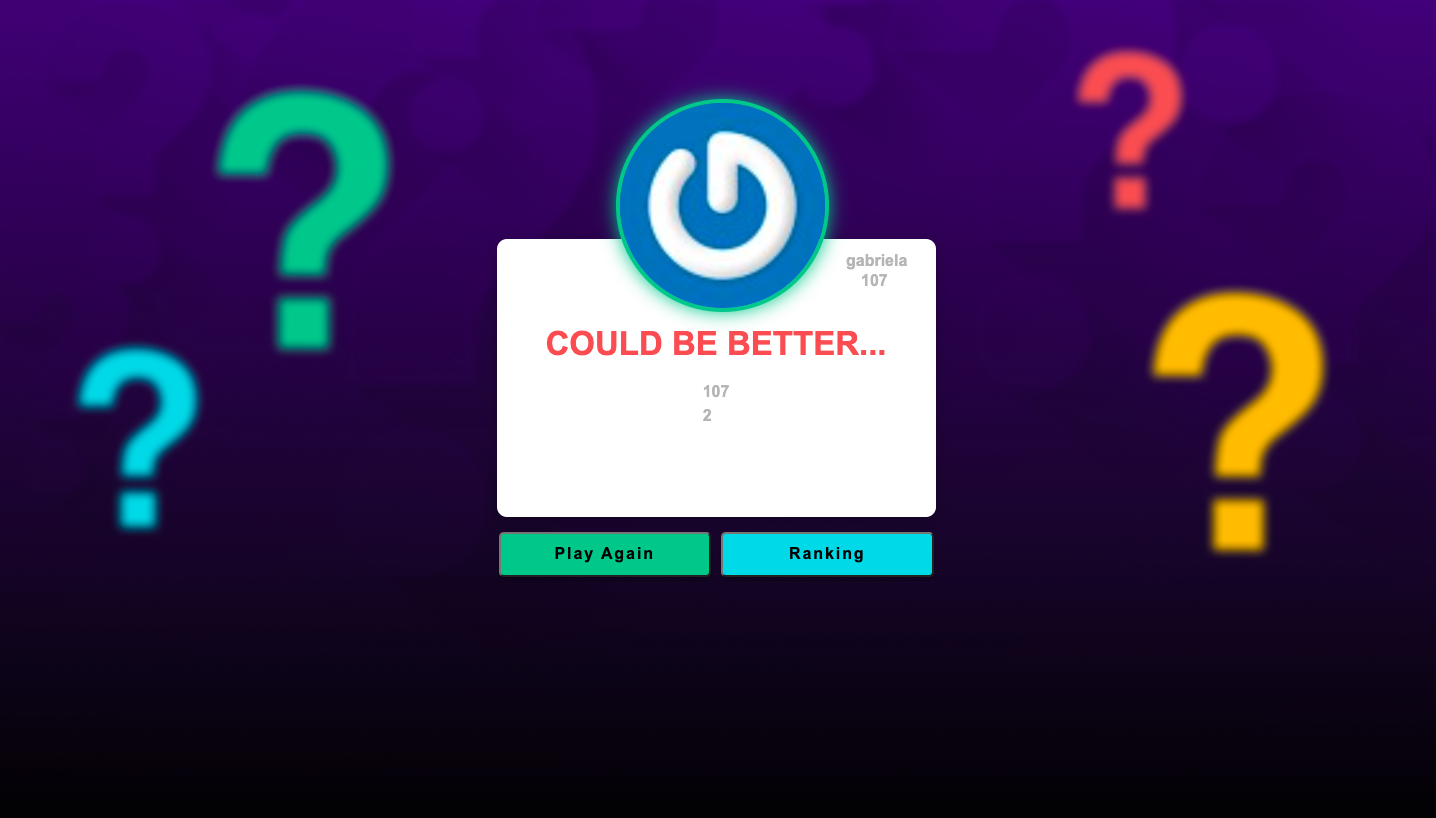
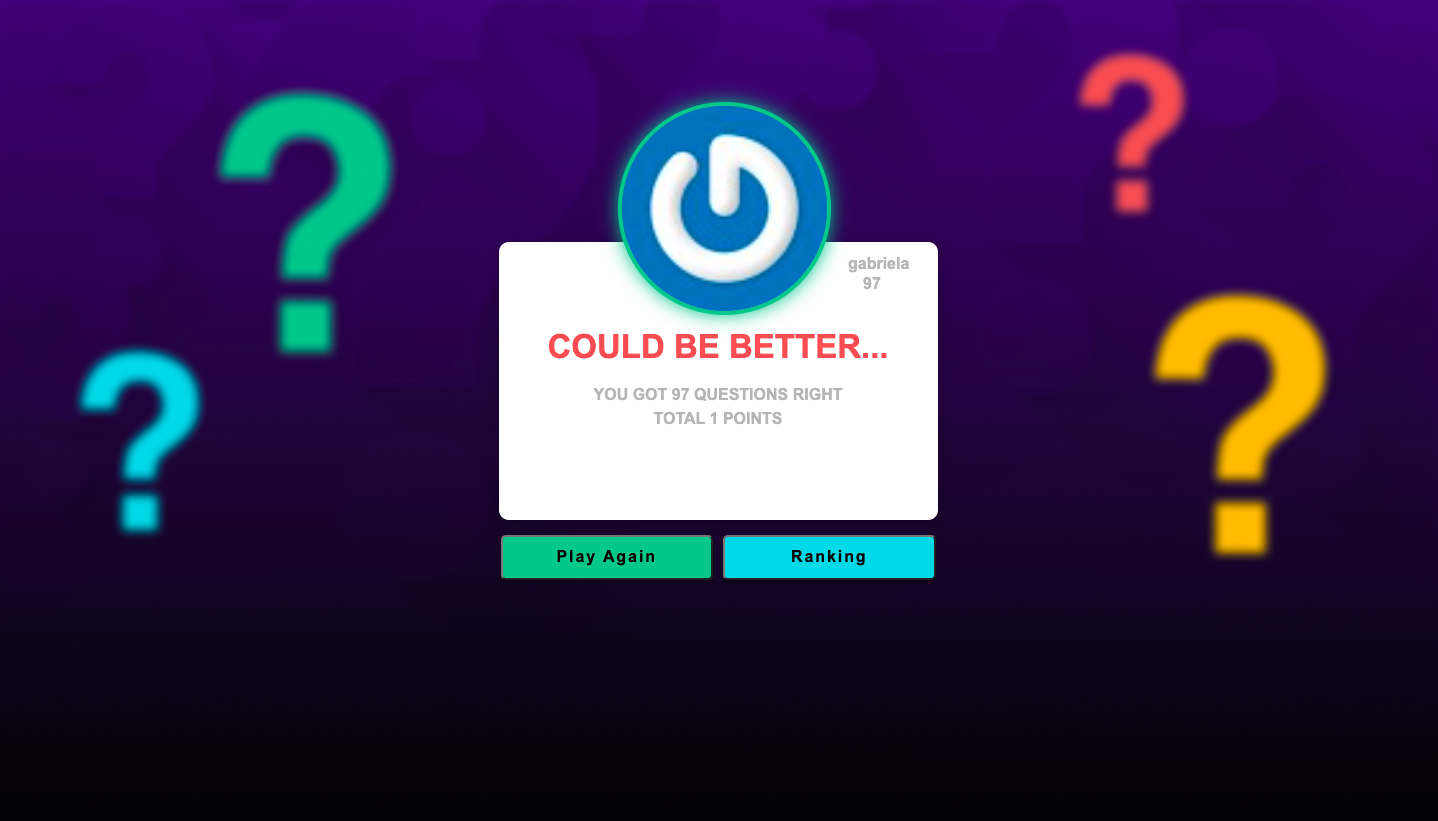
fix: css

diff --git a/src/styles/Game.css b/src/styles/Game.css
@@ -23,8 +23,14 @@
   background: white;
   border: 1px solid white;
   border-radius: 100px;
+  color: black;
   cursor: pointer;
+  font-size: 16px;
+  font-style: normal;
+  font-weight: 400;
   height: 64px;
+  letter-spacing: 0.12em;
+  line-height: 150%;
   width: 519px;
 }
 
@@ -108,7 +114,7 @@
   line-height: 150%;
 }
 
-@media screen and ( max-width : 1024px ) {
+/* @media screen and ( max-width : 1024px ) {
 
   .game-question-container {
     align-items: center;
@@ -121,4 +127,4 @@
     justify-content: space-around;
     width: 439px;
   }
-}
+} */

diff --git a/src/pages/Login.js b/src/pages/Login.js
@@ -67,12 +67,14 @@ class Login extends Component {
           />
           <Button
             testId="btn-play"
+            buttonClassCss="play"
             btnLabel="Play"
             isDisabled={ !(name.length > 0 && gravatarEmail.length > 0) }
             handleButton={ this.handleClick }
           />
           <Button
             testId="btn-settings"
+            buttonClassCss="Settings"
             btnLabel="Settings"
             handleButton={ () => history.push('/settings') }
           />

diff --git a/src/components/FeedbackInfo.jsx b/src/components/FeedbackInfo.jsx
@@ -9,12 +9,12 @@ class Feedback extends Component {
       <div className="feedback-sub-content">
         <div>
           <span data-testid="feedback-total-score">
-            { score }
+            { `You got ${score} questions right` }
           </span>
         </div>
         <div>
           <span data-testid="feedback-total-question">
-            { assertions }
+            { `Total ${assertions} points` }
           </span>
         </div>
       </div>

diff --git a/src/styles/Ranking.css b/src/styles/Ranking.css
@@ -8,7 +8,7 @@
   flex-direction: column;
   justify-content: center;
   margin: auto;
-  margin-top: 12%;
+  margin-top: 200px;
   min-height: 488px;
   padding: 20px;
   padding-top: 100px;
@@ -81,7 +81,7 @@
 .ranking-logo {
   height: 178.76px;
   margin-left: -90px;
-  margin-top: -650px;
+  margin-top: -710px;
   position: absolute;
   width: 177.79px;
 }

diff --git a/src/styles/Feedback.css b/src/styles/Feedback.css
@@ -8,7 +8,7 @@
 
 .feedback-content {
   align-items: center;
-  background: #fff;
+  background: white;
   border-radius: 10px;
   box-shadow: 1px 4px 13px 2px rgba(0, 0, 0, 0.2);
   color: #ea5d5d;
@@ -33,6 +33,7 @@
   font-style: normal;
   font-weight: 700;
   line-height: 150%;
+  text-align: center;
 }
 
 .button-play-again {

diff --git a/src/styles/Login.css b/src/styles/Login.css
@@ -50,3 +50,9 @@
 .login button:first-of-type {
   background-color: #2fc18c;
 }
+
+.login button:first-of-type:disabled {
+  background-color: #0f3d2de1;
+  color: rgb(94, 93, 93);
+  cursor: auto;
+}
